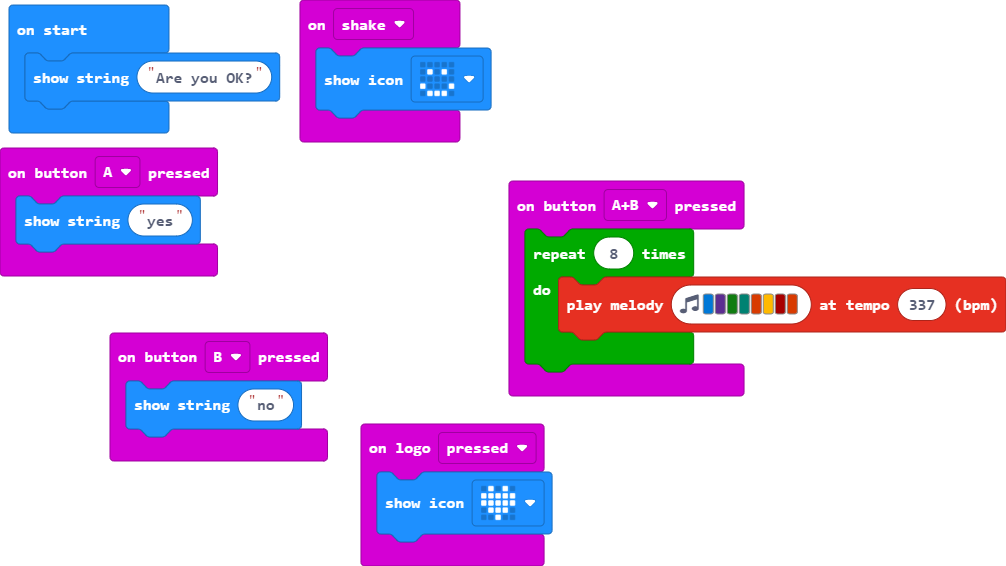
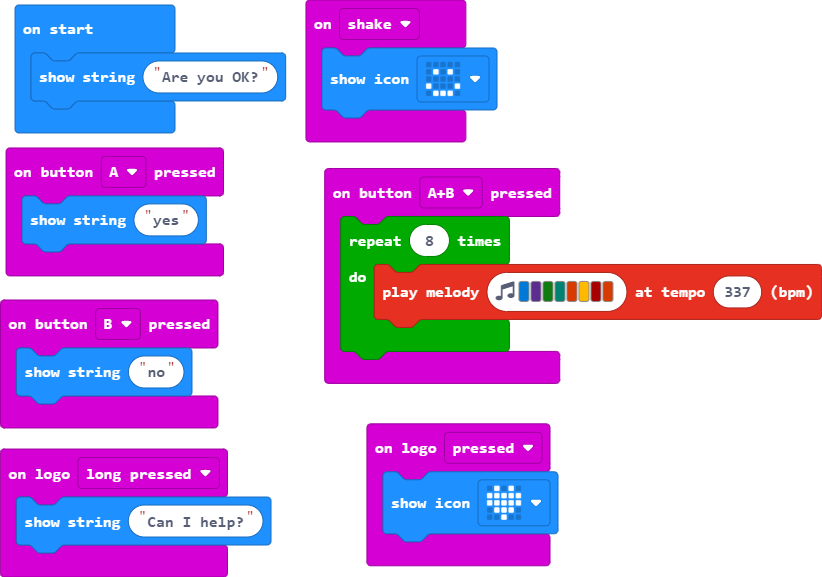
Update main.blocks, main.ts

diff --git a/main.ts b/main.ts
@@ -1,3 +1,6 @@
+input.onLogoEvent(TouchButtonEvent.LongPressed, function () {
+    basic.showString("Can I help?")
+})
 input.onButtonPressed(Button.A, function () {
     basic.showString("yes")
 })
